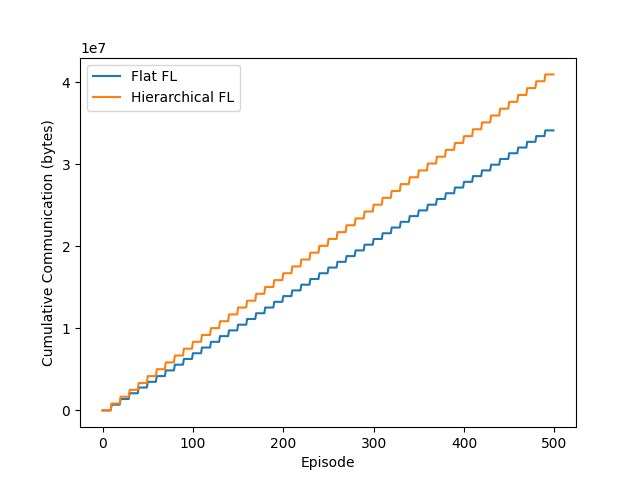
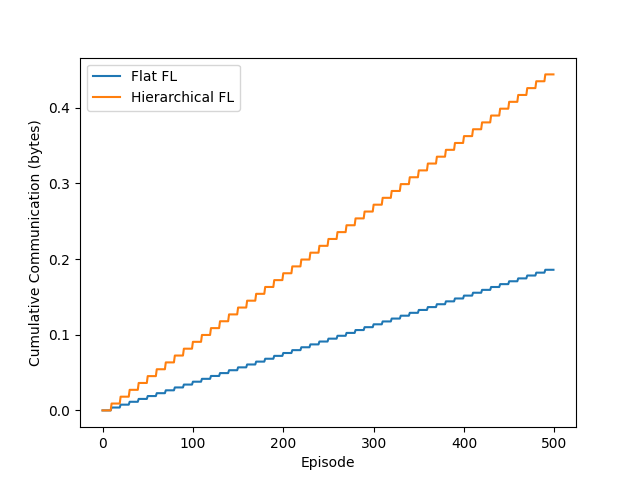
energy comparision betweel flat fl and Hfl

diff --git a/trainer/hierarchical_fl_trainer.py b/trainer/hierarchical_fl_trainer.py
@@ -1,10 +1,13 @@
 import torch
+import numpy as np
 from agent.ddqn_agent import DDQNAgent
 from env.mec_env import MECEnvironment
 from utils.metrics import MetricsLogger
 from config.config import Config
 from network.hierarchy_optimizer import HierarchyOptimizer
 from utils.comm_cost import model_size_bytes
+from utils.comm_energy import WirelessModel
+
 
 class HierarchicalFLTrainer:
     def __init__(self, num_devices, num_edges):
@@ -24,9 +27,16 @@ class HierarchicalFLTrainer:
         self.comm_history = []        
         self.loggers = [MetricsLogger() for _ in range(num_devices)]
 
+        
+        self.wireless = WirelessModel()
+        self.total_comm_energy = 0
+        self.edge_positions = np.random.rand(self.num_edges, 2) * 100
+        self.cloud_pos = np.array([50, 200])
+        
+
         # Partition devices to edges
-        optimizer = HierarchyOptimizer(num_devices, num_edges)
-        self.edge_groups = optimizer.build_groups()
+        self.optimizer = HierarchyOptimizer(num_devices, num_edges)
+        self.edge_groups = self.optimizer.build_groups()
         print("Optimized groups:", self.edge_groups)
 
     # -------- Edge Aggregation --------
@@ -96,39 +106,48 @@ class HierarchicalFLTrainer:
                     agent.update_target()
 
             # ----- Edge Aggregation -----
-      
-                                    
+                  
             if episode % cfg.FL_AGG_INTERVAL == 0 and episode > 0:
             
                 edge_weights_list = []
+                bits = self.model_bytes * 8
             
-                # device → edge uploads
-                self.total_comm_bytes += self.num_devices * self.model_bytes
-            
+                # -------- Device → Edge (cheap links) --------
                 for edge_id, device_ids in enumerate(self.edge_groups):
+                    edge_pos = self.edge_positions[edge_id]
+            
+                    for d_id in device_ids:
+                        device_pos = self.optimizer.device_positions[d_id]
+                        distance = np.linalg.norm(device_pos - edge_pos)
+            
+                        self.total_comm_energy += self.wireless.energy(
+                            bits, distance, is_edge=False
+                        )
+            
                     edge_weights = self.edge_aggregate(device_ids)
                     edge_weights_list.append(edge_weights)
             
-                # edge → cloud uploads (much fewer!)
-                self.total_comm_bytes += self.num_edges * self.model_bytes
+                # -------- Edge → Cloud (expensive links) --------
+                for edge_pos in self.edge_positions:
+                    distance = np.linalg.norm(edge_pos - self.cloud_pos)
+                    self.total_comm_energy += self.wireless.energy(
+                        bits, distance, is_edge=True
+                    )
             
                 global_weights = self.cloud_aggregate(edge_weights_list)
-          
-
-  
+            
                 for agent in self.agents:
                     agent.online_net.load_state_dict(global_weights)
                     agent.target_net.load_state_dict(global_weights)
             
-                print(f"[Hierarchical FL] Aggregation | Comm so far: {self.total_comm_bytes/1e6:.2f} MB")
+                print(f"[Hierarchical FL] Aggregation | Energy so far: {self.total_comm_energy:.2e} J")
+            
 
-
-
+ 
             
             avg_reward = sum(l.episode_rewards[-1] for l in self.loggers) / self.num_devices
             self.reward_history.append(avg_reward)
-            self.comm_history.append(self.total_comm_bytes)
-            
+            self.comm_history.append(self.total_comm_energy)
 
 
 

diff --git a/trainer/flat_fl_trainer.py b/trainer/flat_fl_trainer.py
@@ -1,9 +1,16 @@
 import torch
+import numpy as np
 from agent.ddqn_agent import DDQNAgent
 from env.mec_env import MECEnvironment
 from utils.metrics import MetricsLogger
 from config.config import Config
 from utils.comm_cost import model_size_bytes
+from utils.comm_energy import WirelessModel
+
+
+
+
+
 
 class FlatFLTrainer:
     def __init__(self, num_devices):
@@ -18,8 +25,12 @@ class FlatFLTrainer:
         self.num_devices = num_devices
         self.reward_history = []
         self.comm_history = []
-
-
+                
+        self.wireless = WirelessModel()
+        self.positions = np.random.rand(self.num_devices, 2) * 100
+        self.cloud_pos = np.array([50, 200])  # far away
+        self.total_comm_energy = 0
+        
     def fedavg(self):
         global_weights = {}
         for key in self.agents[0].online_net.state_dict().keys():
@@ -72,20 +83,26 @@ class FlatFLTrainer:
                     agent.update_target()
 
             #FL aggregation step
+           
+            
             if episode % cfg.FL_AGG_INTERVAL == 0 and episode > 0:
                 self.fedavg()
-
-                # every device uploads once
-                self.total_comm_bytes += self.num_devices * self.model_bytes
-
-                print(f"[Flat FL] Aggregation | Comm so far: {self.total_comm_bytes/1e6:.2f} MB")
+            
+                bits = self.model_bytes * 8
+            
+                for pos in self.positions:
+                    distance = np.linalg.norm(pos - self.cloud_pos)
+                    self.total_comm_energy += self.wireless.energy(
+                        bits, distance, is_edge=False
+                    )
+            
+                print(f"[Flat FL] Aggregation | Energy so far: {self.total_comm_energy:.2e} J")
+            
 
             
             avg_reward = sum(l.episode_rewards[-1] for l in self.loggers) / self.num_devices
             self.reward_history.append(avg_reward)
-            self.comm_history.append(self.total_comm_bytes)
-            
-            
+            self.comm_history.append(self.total_comm_energy)
 
     def summarize(self):
         all_rewards, all_delays, all_energies = [], [], []

diff --git a/utils/comm_energy.py b/utils/comm_energy.py
@@ -1,0 +1,23 @@
+import numpy as np
+
+class WirelessModel:
+    def __init__(self):
+        # realistic constants
+        self.B = 10e6          # 10 MHz bandwidth
+        self.N0 = 1e-13       # noise power
+        self.alpha = 3.5      # pathloss exponent
+
+        # powers
+        self.P_device = 0.1   # 100 mW
+        self.P_edge = 1.0     # 1 W
+
+    def rate(self, P, distance):
+        h = 1.0 / (distance ** self.alpha + 1e-9)
+        snr = P * h / self.N0
+        return self.B * np.log2(1 + snr)
+
+    def energy(self, bits, distance, is_edge=False):
+        P = self.P_edge if is_edge else self.P_device
+        R = self.rate(P, distance)
+        delay = bits / R
+        return P * delay
